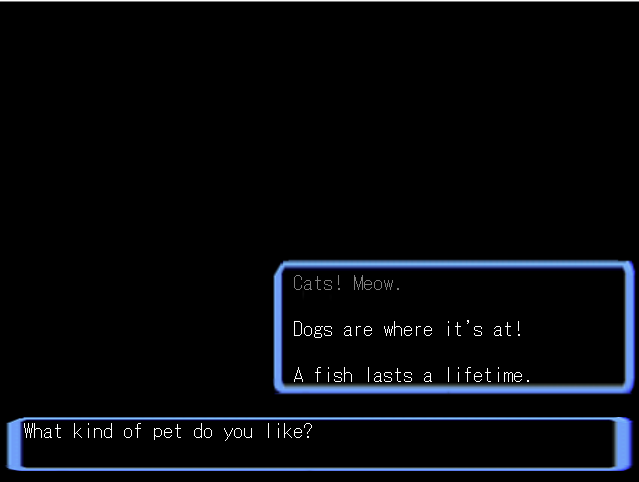
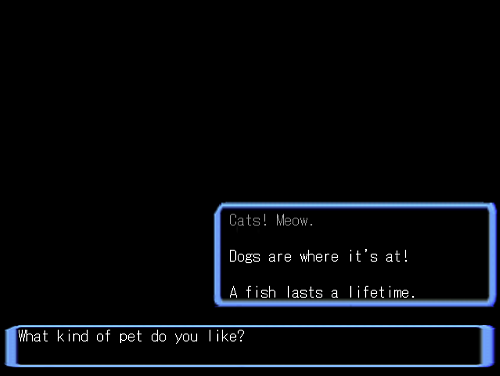
Testing quality of images

diff --git a/projects.html b/projects.html
@@ -37,6 +37,7 @@
     </div>
     <div class = "content-row">
         <div class="left-container">
+            <img src = "https://raw.githubusercontent.com/CTrando/test-website/master/images/personalitytester1.PNG?token=ARZ14tA-x2sNPjGxAdx8kt3KnrT2GfGvks5Y6vU9wA%3D%3D">
         </div>
         <div class = "right-container">
             <h2> Personality Tester </h2>

diff --git a/css/default.css b/css/default.css
@@ -88,7 +88,6 @@ a:hover {
     width: 90%;
     border-radius: 10px;
     border: 2px solid black;
-    object-fit: contain;
 }
 
 .info {
